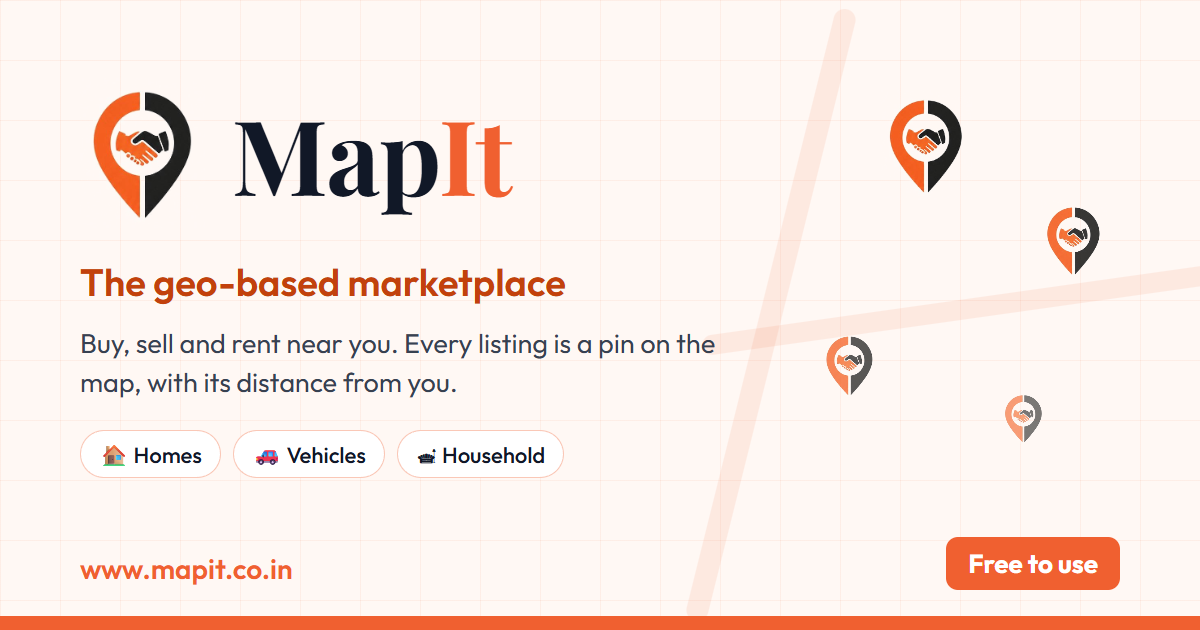
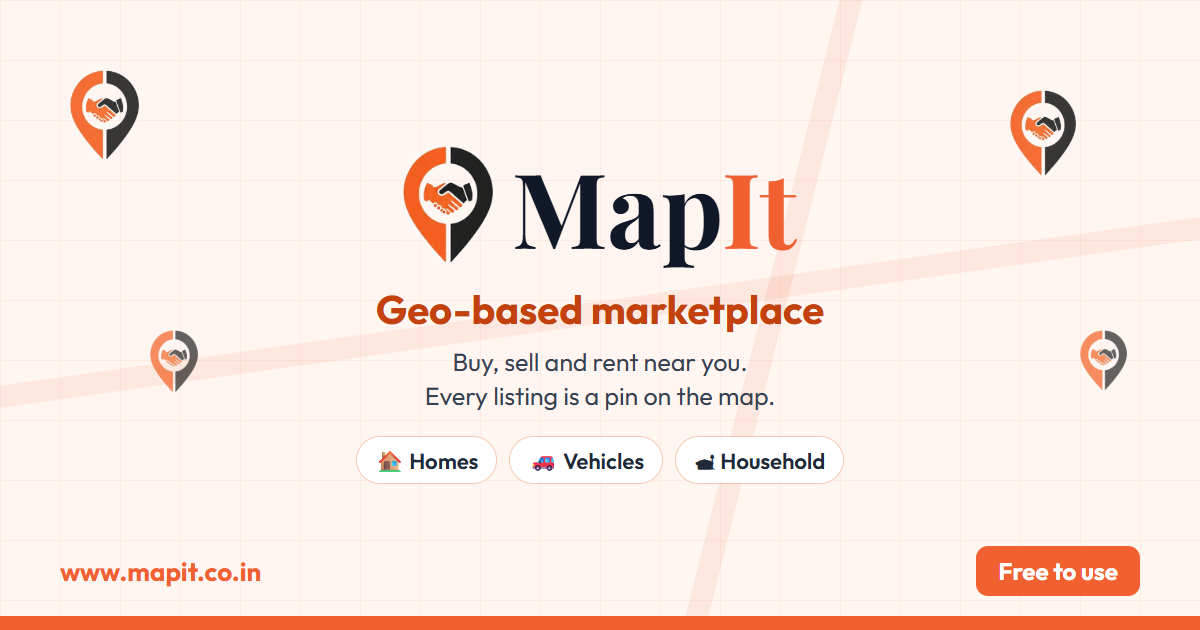
fix(welcome): Start exploring visible on short laptop screens; tagline without 'The'
On 1366x768 laptops (and 150% Windows scaling) the ~800 px card put
'Start exploring' below the fold (Arun could not reach it). Short
screens (>768 px wide, <=860 px tall) now pin the button bar like
phones and tighten spacing. Tagline 'Geo-based marketplace' (Arun).
og-image v3 redrawn from a new source file (docs/other/og-image.html):
no 'The', logo/name/tagline inside the central 630x630 square that
WhatsApp's thumbnail crops; og:image ?v=3.

diff --git a/docs/other/og-image.html b/docs/other/og-image.html
@@ -1,0 +1,43 @@
+<!doctype html>
+<!-- Source of public/og-image.png (link-preview image, 1200×630). Render:
+       chrome --headless=new --hide-scrollbars --window-size=1200,630 --screenshot=public/og-image.png docs/other/og-image.html
+     then bump og:image ?v= in MapIt_MVP_v1.html (WhatsApp caches by URL).
+     Logo, name and tagline stay inside the central 630×630 square —
+     WhatsApp's small thumbnail crops the centre (2026-10-24: v3). -->
+<html><head><meta charset="utf-8">
+<link href="https://fonts.googleapis.com/css2?family=Outfit:wght@400;600;700&family=Playfair+Display:wght@700&display=block" rel="stylesheet">
+<style>
+  html,body{margin:0;width:1200px;height:630px;overflow:hidden;}
+  body{font-family:'Outfit',sans-serif;background:#FFF6F2;position:relative;color:#1F2937;
+    background-image:linear-gradient(rgba(240,96,48,.07) 1px,transparent 1px),linear-gradient(90deg,rgba(240,96,48,.07) 1px,transparent 1px);background-size:60px 60px;}
+  .road{position:absolute;background:rgba(240,96,48,.10);border-radius:12px;}
+  .pin{position:absolute;opacity:.9;}
+  .centre{position:absolute;left:285px;top:0;width:630px;height:630px;display:flex;flex-direction:column;align-items:center;justify-content:center;text-align:center;}
+  .brand{display:flex;align-items:center;gap:18px;}
+  .brand img{height:120px;}
+  .name{font-family:'Playfair Display',serif;font-size:104px;line-height:1;color:#111827;}
+  .name em{font-style:normal;color:#F06030;}
+  .tag{margin-top:18px;font-size:40px;font-weight:700;color:#C2410C;}
+  .sub{margin-top:12px;font-size:25px;color:#374151;line-height:1.35;}
+  .chips{display:flex;gap:12px;margin-top:22px;}
+  .chip{background:#fff;border:1.5px solid #F8C9B5;border-radius:24px;padding:8px 18px;font-size:22px;font-weight:600;}
+  .foot{position:absolute;bottom:34px;left:60px;right:60px;display:flex;justify-content:space-between;align-items:center;}
+  .url{font-size:26px;font-weight:700;color:#F06030;}
+  .free{background:#F06030;color:#fff;font-size:24px;font-weight:700;border-radius:12px;padding:10px 22px;}
+  .bar{position:absolute;left:0;right:0;bottom:0;height:14px;background:#F06030;}
+</style></head><body>
+  <div class="road" style="left:-40px;top:300px;width:1300px;height:22px;transform:rotate(-8deg);"></div>
+  <div class="road" style="left:760px;top:-60px;width:22px;height:760px;transform:rotate(14deg);"></div>
+  <img class="pin" src="../../public/mapit-logo.png" style="left:70px;top:70px;height:92px;">
+  <img class="pin" src="../../public/mapit-logo.png" style="left:150px;top:330px;height:64px;opacity:.7;">
+  <img class="pin" src="../../public/mapit-logo.png" style="left:1010px;top:90px;height:88px;">
+  <img class="pin" src="../../public/mapit-logo.png" style="left:1080px;top:330px;height:62px;opacity:.7;">
+  <div class="centre">
+    <div class="brand"><img src="../../public/mapit-logo.png" alt=""><div class="name">Map<em>It</em></div></div>
+    <div class="tag">Geo-based marketplace</div>
+    <div class="sub">Buy, sell and rent near you.<br>Every listing is a pin on the map.</div>
+    <div class="chips"><span class="chip">🏠 Homes</span><span class="chip">🚗 Vehicles</span><span class="chip">🛋 Household</span></div>
+  </div>
+  <div class="foot"><span class="url">www.mapit.co.in</span><span class="free">Free to use</span></div>
+  <div class="bar"></div>
+</body></html>

diff --git a/MapIt_MVP_v1.html b/MapIt_MVP_v1.html
@@ -14,15 +14,15 @@
 <meta property="og:title" content="MapIt — Geo-based Marketplace">
 <meta property="og:description" content="Geo-based Marketplace: browse real estate, vehicles and household items near you on an interactive map. Free to post.">
 <!-- ?v= busts WhatsApp/Facebook preview caches; bump it whenever og-image.png changes -->
-<meta property="og:image" content="https://www.mapit.co.in/og-image.png?v=2">
+<meta property="og:image" content="https://www.mapit.co.in/og-image.png?v=3">
 <meta property="og:image:width" content="1200">
 <meta property="og:image:height" content="630">
-<meta property="og:image:alt" content="MapIt — the geo-based marketplace. Buy, sell and rent near you.">
+<meta property="og:image:alt" content="MapIt — geo-based marketplace. Buy, sell and rent near you.">
 <!-- Twitter / X card -->
 <meta name="twitter:card" content="summary_large_image">
 <meta name="twitter:title" content="MapIt — Geo-based Marketplace">
 <meta name="twitter:description" content="Geo-based Marketplace for Bangalore. Browse by map, post for free.">
-<meta name="twitter:image" content="https://www.mapit.co.in/og-image.png?v=2">
+<meta name="twitter:image" content="https://www.mapit.co.in/og-image.png?v=3">
 <link rel="preload" href="https://cdnjs.cloudflare.com/ajax/libs/leaflet/1.9.4/leaflet.min.js" as="script">
 <link rel="stylesheet" href="https://cdnjs.cloudflare.com/ajax/libs/leaflet/1.9.4/leaflet.min.css"/>
 <link rel="stylesheet" href="https://cdnjs.cloudflare.com/ajax/libs/leaflet.markercluster/1.5.3/MarkerCluster.css"/>
@@ -779,6 +779,20 @@ html,body{height:100%;overflow:hidden;font-family:'Outfit',sans-serif;background
   .wl-cta-note{display:none;}  /* phones: keep the sticky bar slim — the sign-in screen comes next anyway */
   .wl-foot{justify-content:center;flex-direction:column;}
 }
+/* Short laptop screens (1366×768, or 150% Windows scaling): the card is
+   ~800 px tall, so "Start exploring" sat below the fold and Arun couldn't
+   reach it (2026-10-24). Pin the button bar like on phones, and tighten. */
+@media(min-width:769px) and (max-height:860px){
+  .wl-wrap{align-items:flex-start;padding:16px 16px 0;}
+  .wl-card{padding:22px 36px 14px;}
+  .wl-logo{height:60px;}
+  .wl-name{font-size:38px;}
+  .wl-h1{font-size:26px;margin:14px auto 6px;}
+  .wl-usp{margin:16px 0 10px;padding:12px 18px;}
+  .wl-feats{margin:0 0 14px;}
+  .wl-cta{position:sticky;bottom:0;margin:14px -36px 0;padding:12px 36px;background:linear-gradient(to top,rgba(255,255,255,.98) 70%,rgba(255,255,255,0));z-index:2;}
+  .wl-foot{margin-top:8px;}
+}
 @media(prefers-reduced-motion:reduce){.wl-pin,.wl-tagchip{animation:none;}.wl-ring::before{animation:none;opacity:0;}}
 </style>
 </head>
@@ -836,7 +850,7 @@ html,body{height:100%;overflow:hidden;font-family:'Outfit',sans-serif;background
         <img class="wl-logo" src="/mapit-logo.png" width="57" height="76" alt="MapIt logo">
         <div class="wl-name">Map<em>It</em></div>
       </div>
-      <div class="wl-tag">The geo-based marketplace</div>
+      <div class="wl-tag">Geo-based marketplace</div>
       <h1 class="wl-h1" id="wlTitle">What if everything around you was <span>just one search away?</span></h1>
       <p class="wl-sub">Everything around you. All in one place. <span class="wl-free">Free to use</span></p>
 

diff --git a/public/index.html b/public/index.html
@@ -14,15 +14,15 @@
 <meta property="og:title" content="MapIt — Geo-based Marketplace">
 <meta property="og:description" content="Geo-based Marketplace: browse real estate, vehicles and household items near you on an interactive map. Free to post.">
 <!-- ?v= busts WhatsApp/Facebook preview caches; bump it whenever og-image.png changes -->
-<meta property="og:image" content="https://www.mapit.co.in/og-image.png?v=2">
+<meta property="og:image" content="https://www.mapit.co.in/og-image.png?v=3">
 <meta property="og:image:width" content="1200">
 <meta property="og:image:height" content="630">
-<meta property="og:image:alt" content="MapIt — the geo-based marketplace. Buy, sell and rent near you.">
+<meta property="og:image:alt" content="MapIt — geo-based marketplace. Buy, sell and rent near you.">
 <!-- Twitter / X card -->
 <meta name="twitter:card" content="summary_large_image">
 <meta name="twitter:title" content="MapIt — Geo-based Marketplace">
 <meta name="twitter:description" content="Geo-based Marketplace for Bangalore. Browse by map, post for free.">
-<meta name="twitter:image" content="https://www.mapit.co.in/og-image.png?v=2">
+<meta name="twitter:image" content="https://www.mapit.co.in/og-image.png?v=3">
 <link rel="preload" href="https://cdnjs.cloudflare.com/ajax/libs/leaflet/1.9.4/leaflet.min.js" as="script">
 <link rel="stylesheet" href="https://cdnjs.cloudflare.com/ajax/libs/leaflet/1.9.4/leaflet.min.css"/>
 <link rel="stylesheet" href="https://cdnjs.cloudflare.com/ajax/libs/leaflet.markercluster/1.5.3/MarkerCluster.css"/>
@@ -779,6 +779,20 @@ html,body{height:100%;overflow:hidden;font-family:'Outfit',sans-serif;background
   .wl-cta-note{display:none;}  /* phones: keep the sticky bar slim — the sign-in screen comes next anyway */
   .wl-foot{justify-content:center;flex-direction:column;}
 }
+/* Short laptop screens (1366×768, or 150% Windows scaling): the card is
+   ~800 px tall, so "Start exploring" sat below the fold and Arun couldn't
+   reach it (2026-10-24). Pin the button bar like on phones, and tighten. */
+@media(min-width:769px) and (max-height:860px){
+  .wl-wrap{align-items:flex-start;padding:16px 16px 0;}
+  .wl-card{padding:22px 36px 14px;}
+  .wl-logo{height:60px;}
+  .wl-name{font-size:38px;}
+  .wl-h1{font-size:26px;margin:14px auto 6px;}
+  .wl-usp{margin:16px 0 10px;padding:12px 18px;}
+  .wl-feats{margin:0 0 14px;}
+  .wl-cta{position:sticky;bottom:0;margin:14px -36px 0;padding:12px 36px;background:linear-gradient(to top,rgba(255,255,255,.98) 70%,rgba(255,255,255,0));z-index:2;}
+  .wl-foot{margin-top:8px;}
+}
 @media(prefers-reduced-motion:reduce){.wl-pin,.wl-tagchip{animation:none;}.wl-ring::before{animation:none;opacity:0;}}
 </style>
 </head>
@@ -836,7 +850,7 @@ html,body{height:100%;overflow:hidden;font-family:'Outfit',sans-serif;background
         <img class="wl-logo" src="/mapit-logo.png" width="57" height="76" alt="MapIt logo">
         <div class="wl-name">Map<em>It</em></div>
       </div>
-      <div class="wl-tag">The geo-based marketplace</div>
+      <div class="wl-tag">Geo-based marketplace</div>
       <h1 class="wl-h1" id="wlTitle">What if everything around you was <span>just one search away?</span></h1>
       <p class="wl-sub">Everything around you. All in one place. <span class="wl-free">Free to use</span></p>
 
